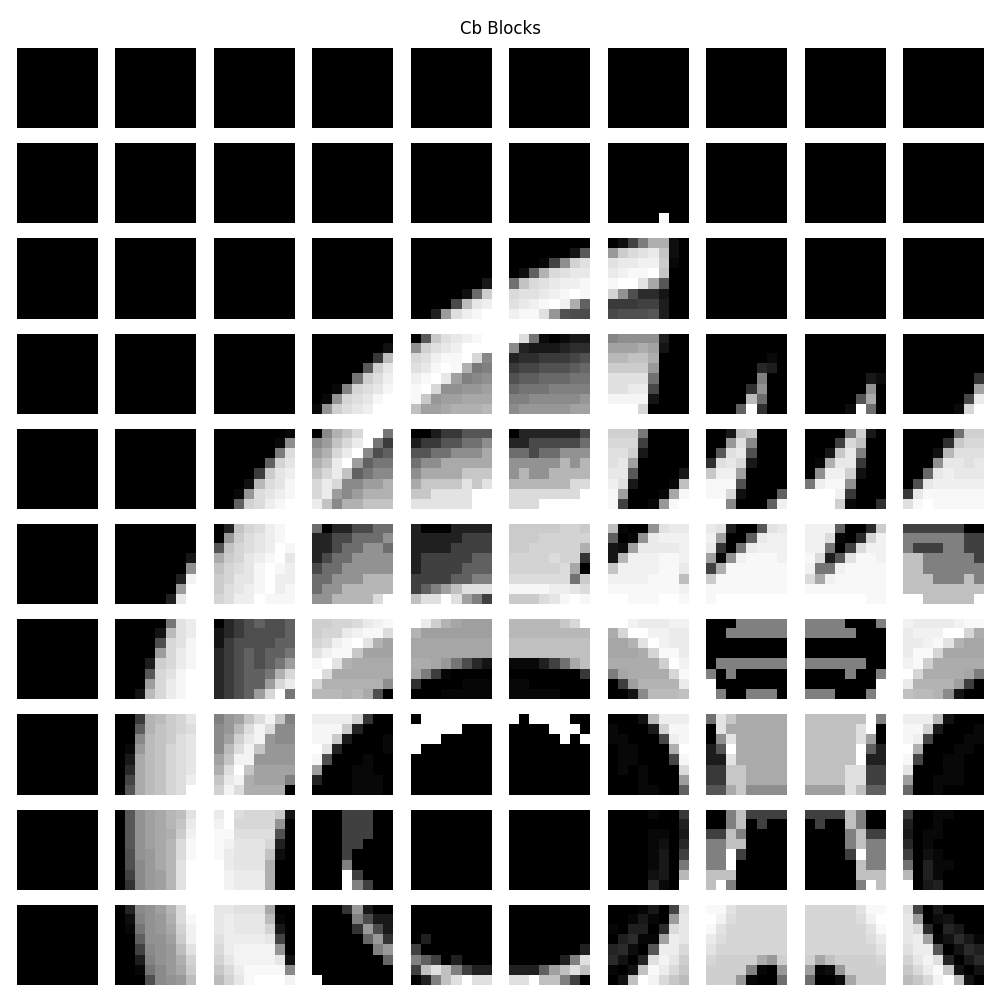
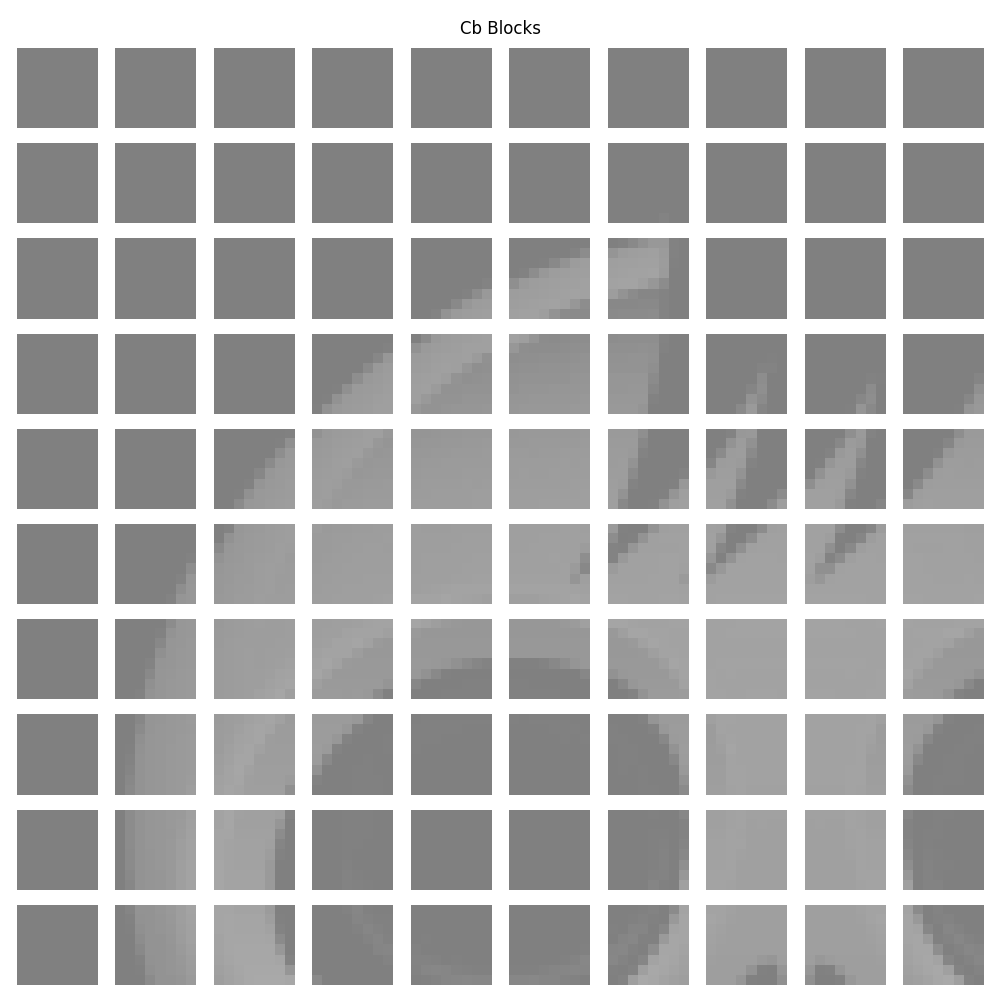
Adjust displaying of blocks --> use vmin/vmax parameters, so scaling is done across array and not just per block (previously, this resulted in an extremely high contrast per BLOCK)

diff --git a/main.py b/main.py
@@ -22,7 +22,12 @@ def show_blocks(blocks, output_file, title):
 
     for i in range(n_v):
         for j in range(n_h):
-            axes[i, j].imshow(blocks[i, j], cmap="gray")
+            # Use vmin/vmax to scale all blocks across 0-255 (lowest value of all --> map
+            # to 0, highest value of all -> map to white, everything else in relation!
+            # IF THIS IS OMITTED: The 0-255 scale will be applied for EACH BLOCK -->
+            # contrast seems extremely high, as 0/255 is assigned to the lowest/highest value
+            # PER BLOCK!
+            axes[i, j].imshow(blocks[i, j], cmap="gray", vmin=0, vmax=255)
             axes[i, j].axis("off")
 
     plt.suptitle(title)
@@ -63,7 +68,7 @@ def save_subsample_plot(Y, Cb, Cr, Cb_up, Cr_up, output_file):
     axes[1, 2].axis("off")
 
     plt.tight_layout()
-    plt.savefig(output_file, dpi=150)
+    plt.savefig(output_file)
     plt.close()
     print(f"Saved subsampling preview to '{output_file}'")
 
